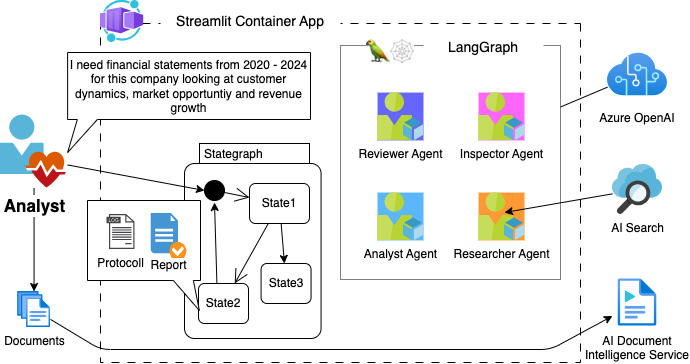
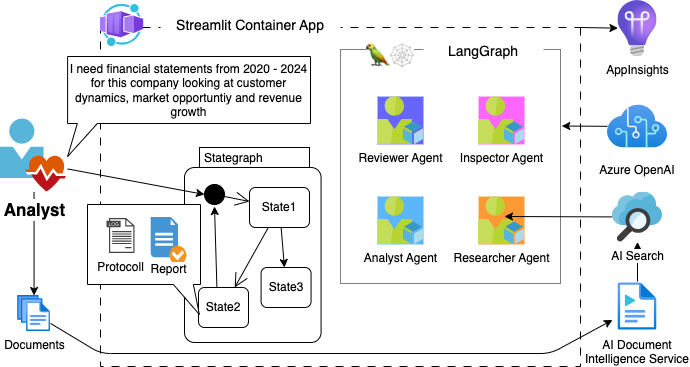
added update on ai insights

diff --git a/src/web/app.py b/src/web/app.py
@@ -32,6 +32,7 @@ from opentelemetry.instrumentation.langchain import LangchainInstrumentor
 from opentelemetry import trace, trace as trace_api
 from opentelemetry.exporter.otlp.proto.http.trace_exporter import OTLPSpanExporter
 from token_counter import TokenCounterCallback
+from azure.monitor.opentelemetry.exporter import AzureMonitorTraceExporter
 
 dotenv.load_dotenv()
 
@@ -39,22 +40,18 @@ st.set_page_config(
     page_title="AI financial analyst agents",
 )
 
-
 instrumentor = LangchainInstrumentor()
 
 @st.cache_resource
 def setup_tracing():
 
-    # resource = Resource(attributes={
-    #     "service.name": "ai.financial.agents"
-    # })
-
-    # trace.set_tracer_provider(TracerProvider(resource=resource))
-    otlp_exporter = OTLPSpanExporter()
+    exporter = AzureMonitorTraceExporter.from_connection_string(
+        os.environ["APPLICATIONINSIGHTS_CONNECTION_STRING"]
+    )
     tracer_provider = TracerProvider()
-    # trace.set_tracer_provider(tracer_provider)
+    trace.set_tracer_provider(tracer_provider)
     tracer = trace.get_tracer(__name__)
-    span_processor = BatchSpanProcessor(otlp_exporter, schedule_delay_millis=60000)
+    span_processor = BatchSpanProcessor(exporter, schedule_delay_millis=60000)
     trace.get_tracer_provider().add_span_processor(span_processor)
     if not instrumentor.is_instrumented_by_opentelemetry:
         instrumentor.instrument()
@@ -148,7 +145,7 @@ if "AZURE_OPENAI_API_KEY" in os.environ:
     )
     embeddings_model = AzureOpenAIEmbeddings(    
         azure_deployment = os.getenv("AZURE_OPENAI_EMBEDDING_DEPLOYMENT_NAME"),
-        openai_api_version = os.getenv("AZURE_OPENAI_VERSION"),
+        openai_api_version = "2024-08-01-preview", # os.getenv("AZURE_OPENAI_VERSION"),
         model= os.getenv("AZURE_OPENAI_EMBEDDING_MODEL"),
         api_key=os.getenv("AZURE_OPENAI_API_KEY")
     )
@@ -163,7 +160,7 @@ else:
         azure_ad_token_provider=token_provider,
         azure_endpoint=os.getenv("AZURE_OPENAI_ENDPOINT"),
         azure_deployment=os.getenv("AZURE_OPENAI_COMPLETION_DEPLOYMENT_NAME"),
-        openai_api_version=os.getenv("AZURE_OPENAI_VERSION"),
+        openai_api_version= "2024-08-01-preview", #os.getenv("AZURE_OPENAI_VERSION"),
         temperature=0,
         openai_api_type="azure_ad",
         streaming=True,
@@ -178,28 +175,6 @@ else:
 
 def llm(x):
     return chat_model.invoke(x).content
-
-class Rating(BaseModel):
-    '''Rating of the feedback'''
-    feedbackResolved: bool = Field(
-        ...,
-        description="Has the feedback been resolved in the statements",
-    )
-    reasoning: str = Field(
-        ...,
-        description="The reasoning behind the rating",
-   )  
-
-def model_rating(input) -> Rating:
-    rating_model = chat_model.with_structured_output(Rating)
-    rating_prompt = f""" Help me understand the following by giving me a response to the question, a short reasoning on why the response is correct:  {input}"""
-    completion = rating_model.invoke(rating_prompt)
-    # completion = openai.beta.chat.completions.parse(
-    #     model = os.getenv("AZURE_OPENAI_COMPLETION_DEPLOYMENT_NAME"),
-    #     messages = [{"role" : "assistant", "content" : f""" Help me understand the following by giving me a response to the question, a short reasoning on why the response is correct:  {input}"""}],
-    #     response_format = Rating)
-    
-    return completion
 
 class Statement(BaseModel):
     '''Statement response to a question with the reasoning and certainty'''
@@ -220,12 +195,8 @@ def model_response(input) -> Statement:
     statement_model = chat_model.with_structured_output(Statement)
     statement_prompt = f""" Help me understand the following by giving me a response to the question, a short reasoning on why the response is correct and a rating on the certainty on the correctness of the response:  {input}"""
     completion = statement_model.invoke(statement_prompt)
-    # completion = openai.beta.chat.completions.parse(
-    #     model = os.getenv("AZURE_OPENAI_COMPLETION_DEPLOYMENT_NAME"),
-    #     messages = [{"role" : "assistant", "content" : f""" Help me understand the following by giving me a response to the question, a short reasoning on why the response is correct and a rating on the certainty on the correctness of the response:  {input}"""}],
-    #     response_format = Statement)
     
-    return completion #.choices[0].message.parsed
+    return completion 
 
 class Objective(BaseModel):
     '''Objective of the model to extract urls and the question'''
@@ -242,14 +213,8 @@ def model_objective(input) -> Objective:
     objective_model = chat_model.with_structured_output(Objective)
     objective_prompt = f"""Extract all the urls in the following input and the objective that was asked in the form of a question. Ignore all the urls that end with pdf. Do not generate new urls that are not in the input. Input: {input}"""
     completion = objective_model.invoke(objective_prompt)
-
-    # completion = openai.beta.chat.completions.parse(
-    #     model = os.getenv("AZURE_OPENAI_COMPLETION_DEPLOYMENT_NAME"),
-    #     messages = [{"role" : "assistant", "content" : f"""Extract all the urls in the following input and the objective that was asked in the form of a question. 
-    #                  Ignore all the urls that end with pdf. Do not generate new urls that are not in the input. Input: {input}"""}],
-    #     response_format = Objective)
     
-    return completion #.choices[0].message.parsed
+    return completion
 
 def get_embedding(text, embeddingsmodel=embeddings_model):
     if len(text) == 0:
@@ -426,7 +391,7 @@ Your output should not exceed {} words."
 
 def handle_analyst(state):
     print("starting analyst...")
-    # print(state)
+
     history = state.get('history', '').strip()
     feedback = state.get('feedback', '').strip()
     insights = state.get('insights', '').strip()
@@ -441,7 +406,6 @@ def handle_analyst(state):
 
     st.info('This is iteration ' + str(iterations + 1), icon="ℹ")
     messages.append(AIMessage(name="Analyst (gpt-4 - v0.2)", content= "My reasoning:  \n\n "+ analsis.reasoning + " \n\n My Statements: \n\n " + analsis.response))
-    # messages.append(SystemMessage(content=statements))
 
     print("analyst done")
     return {'history':history+'\n STATEMENTS:\n'+analsis.response,'statements':analsis.response, 'iterations':iterations, 'insights': insights, 'messages':messages}
@@ -470,6 +434,24 @@ def handle_result(state):
 
     return {'rating':rating,'code_compare':statements_compare, 'iterations':iterations, 'messages':messages}
 
+class Rating(BaseModel):
+    '''Rating of the feedback'''
+    feedbackResolved: bool = Field(
+        ...,
+        description="Has the feedback been resolved in the statements true or false",
+    )
+    reasoning: str = Field(
+        ...,
+        description="The reasoning behind the rating with a small explanation",
+   )  
+
+def model_rating(input) -> Rating:
+    rating_model = chat_model.with_structured_output(Rating)
+    rating_prompt = f""" Help me understand the following by giving me a response to the question,
+      a short reasoning on why the response is correct:  {input}"""
+    completion = rating_model.invoke(rating_prompt)    
+    return completion
+
 classify_feedback_start = "Are most of the important feedback points mentioned resolved in the statements? Output just Yes or No with a reason.\
 Statements: \n {} \n Feedback: \n {} \n"
 
@@ -481,37 +463,39 @@ def classify_feedback(state):
     
     state['all_feedback_resolved'] = rating.feedbackResolved
     messages = state.get('messages')
-    messages.append(AIMessage(name= "Inspector (gpt-4o-mini - v0.1)", content="Feedback resolved: " + str(rating.feedbackResolved) + " \n\n Reasoning: "+rating.reasoning))
+    messages.append(AIMessage(name= "Inspector (gpt-4o - v0.1)", content="Feedback resolved: " + str(rating.feedbackResolved) + " \n\n Reasoning: "+rating.reasoning))
     state['messages'] = messages
 
     return state
 
-# Define the nodes we will cycle between
+# Define the nodes we will cycle between different states
 workflow.add_node("handle_reviewer",handle_reviewer)
 workflow.add_node("handle_analyst",handle_analyst)
 workflow.add_node("handle_result",handle_result)
 workflow.add_node("classify_feedback",classify_feedback)
 
-def deployment_ready(state):
-    deployment_ready = state['all_feedback_resolved']
-    print("Deployment ready: " + str(deployment_ready))
+# Define the conditional edges to decide if we should continue to the next state
+def report_ready(state):
+    report_ready = state['all_feedback_resolved']
+    print("Deployment ready: " + str(report_ready))
     total_iterations = 1 if state.get('iterations')>5 else 0
     # print(state)
     if state.get('iterations')>loops:
         print("Iterations exceeded")
         return "handle_result"
-    return "handle_result" if  deployment_ready or total_iterations else "handle_analyst" 
+    return "handle_result" if  report_ready or total_iterations else "handle_analyst" 
 
-
+# Determine if the report is ready or not
 workflow.add_conditional_edges(
     "classify_feedback",
-    deployment_ready,
+    report_ready,
     {
         "handle_result": "handle_result",
         "handle_analyst": "handle_analyst"
     }
 )
 
+# Define the entry point and the end point
 workflow.set_entry_point("handle_analyst")
 workflow.add_edge('handle_analyst', "handle_reviewer")
 workflow.add_edge('handle_reviewer', "classify_feedback")
